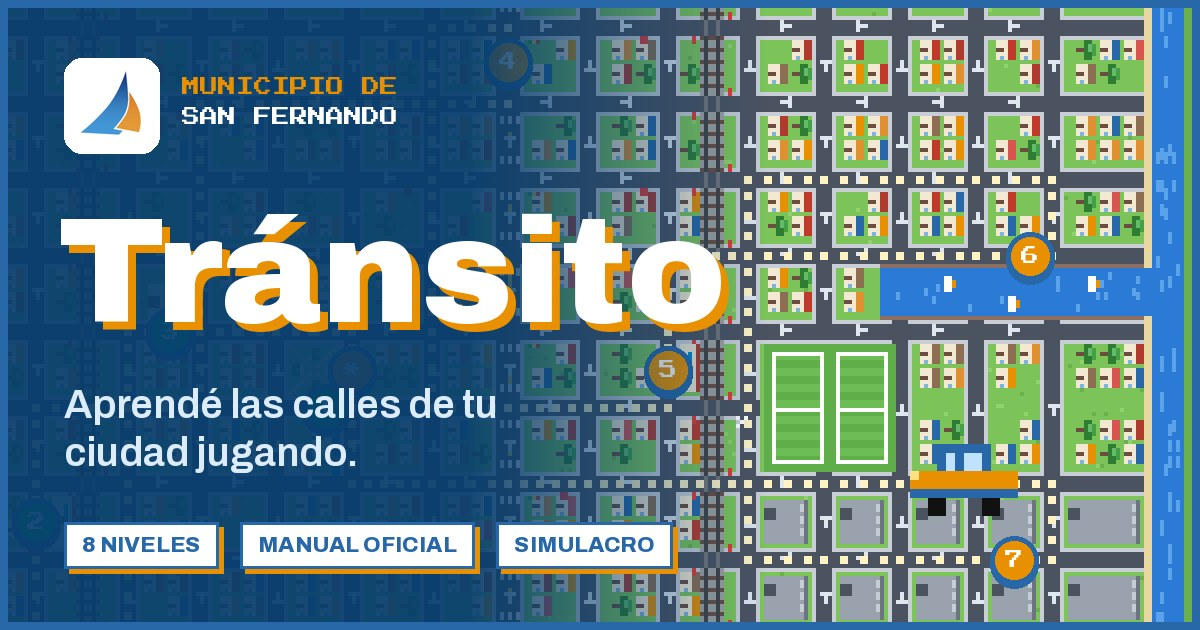
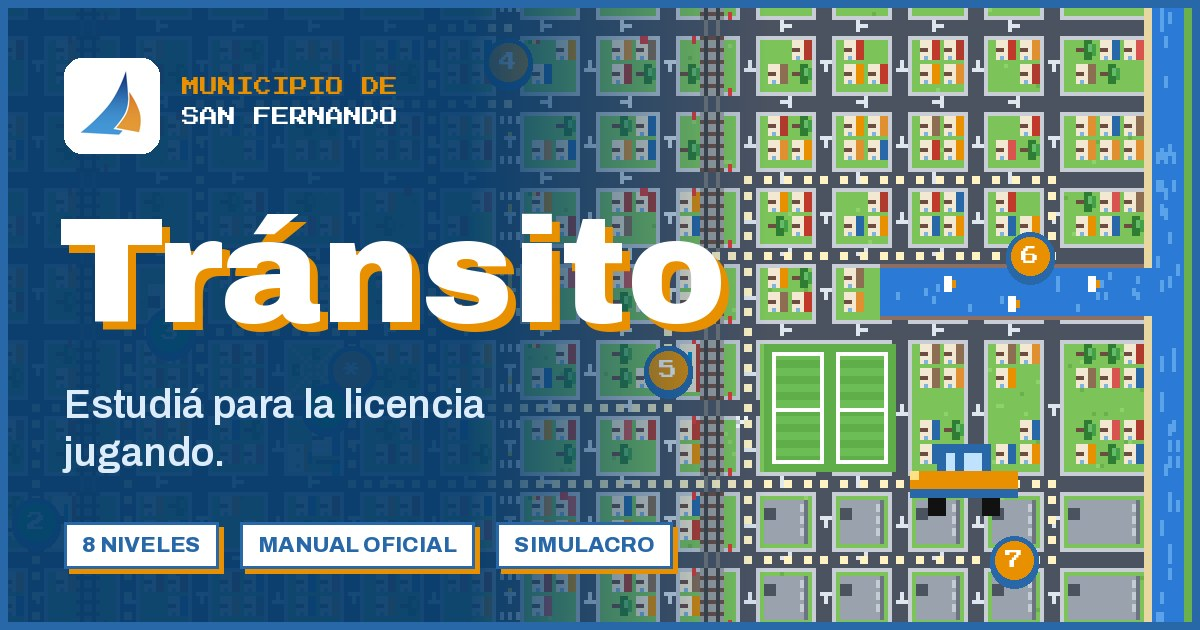
Thumbnail: Estudiá para la licencia jugando

Changed region(s): [[0.0308, 0.6032, 0.4317, 0.6635], [0.0308, 0.6937, 0.3083, 0.754]]

diff --git a/plataforma.html b/plataforma.html
@@ -5,13 +5,13 @@
 <meta name="viewport" content="width=device-width, initial-scale=1.0, viewport-fit=cover">
 <meta name="theme-color" content="#0088C8">
 <title>Tránsito · Municipio de San Fernando</title>
-<meta name="description" content="Aprendé las calles de tu ciudad jugando: 8 niveles en lugares reales de San Fernando, el Manual del Conductor y un simulacro del examen teórico.">
+<meta name="description" content="Estudiá para la licencia jugando: 8 niveles en lugares reales de San Fernando, el Manual del Conductor y un simulacro del examen teórico.">
 <meta property="og:type" content="website">
 <meta property="og:locale" content="es_AR">
 <meta property="og:site_name" content="Municipio de San Fernando">
 <meta property="og:url" content="https://sanfertest.vercel.app/plataforma">
 <meta property="og:title" content="Tránsito · Municipio de San Fernando">
-<meta property="og:description" content="Aprendé las calles de tu ciudad jugando: 8 niveles, Manual del Conductor y simulacro del examen teórico.">
+<meta property="og:description" content="Estudiá para la licencia jugando: 8 niveles, Manual del Conductor y simulacro del examen teórico.">
 <meta property="og:image" content="https://sanfertest.vercel.app/og-plataforma.jpg">
 <meta property="og:image:width" content="1200">
 <meta property="og:image:height" content="630">
